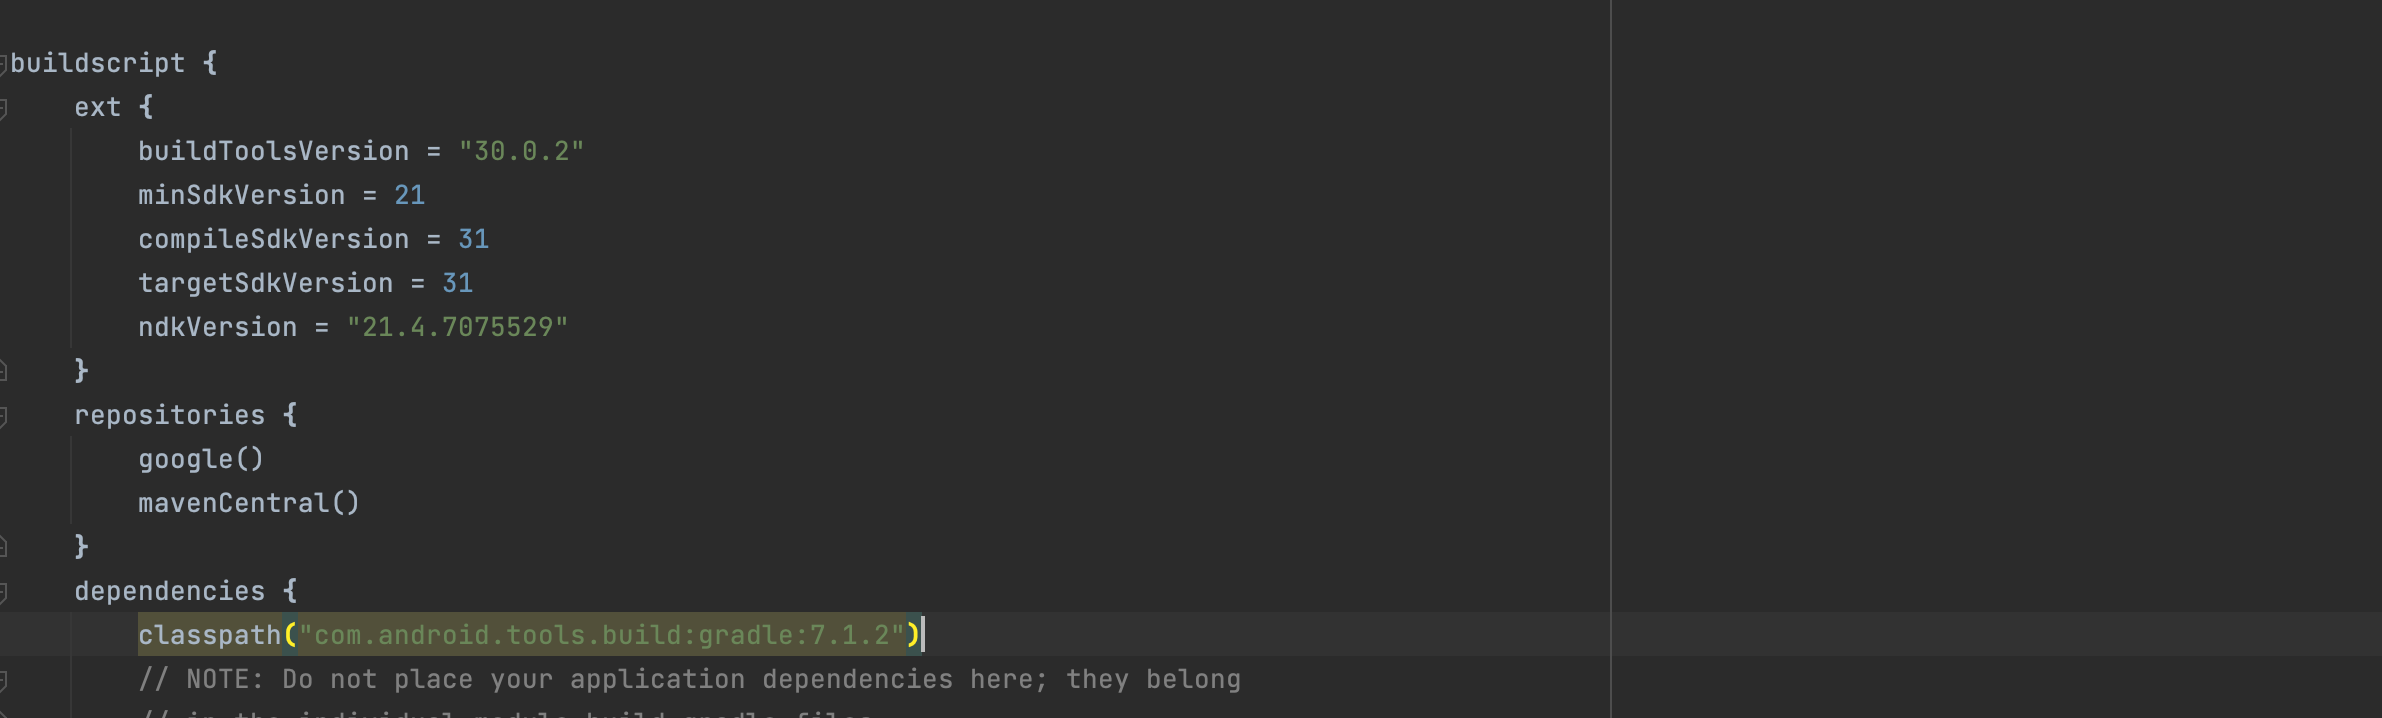
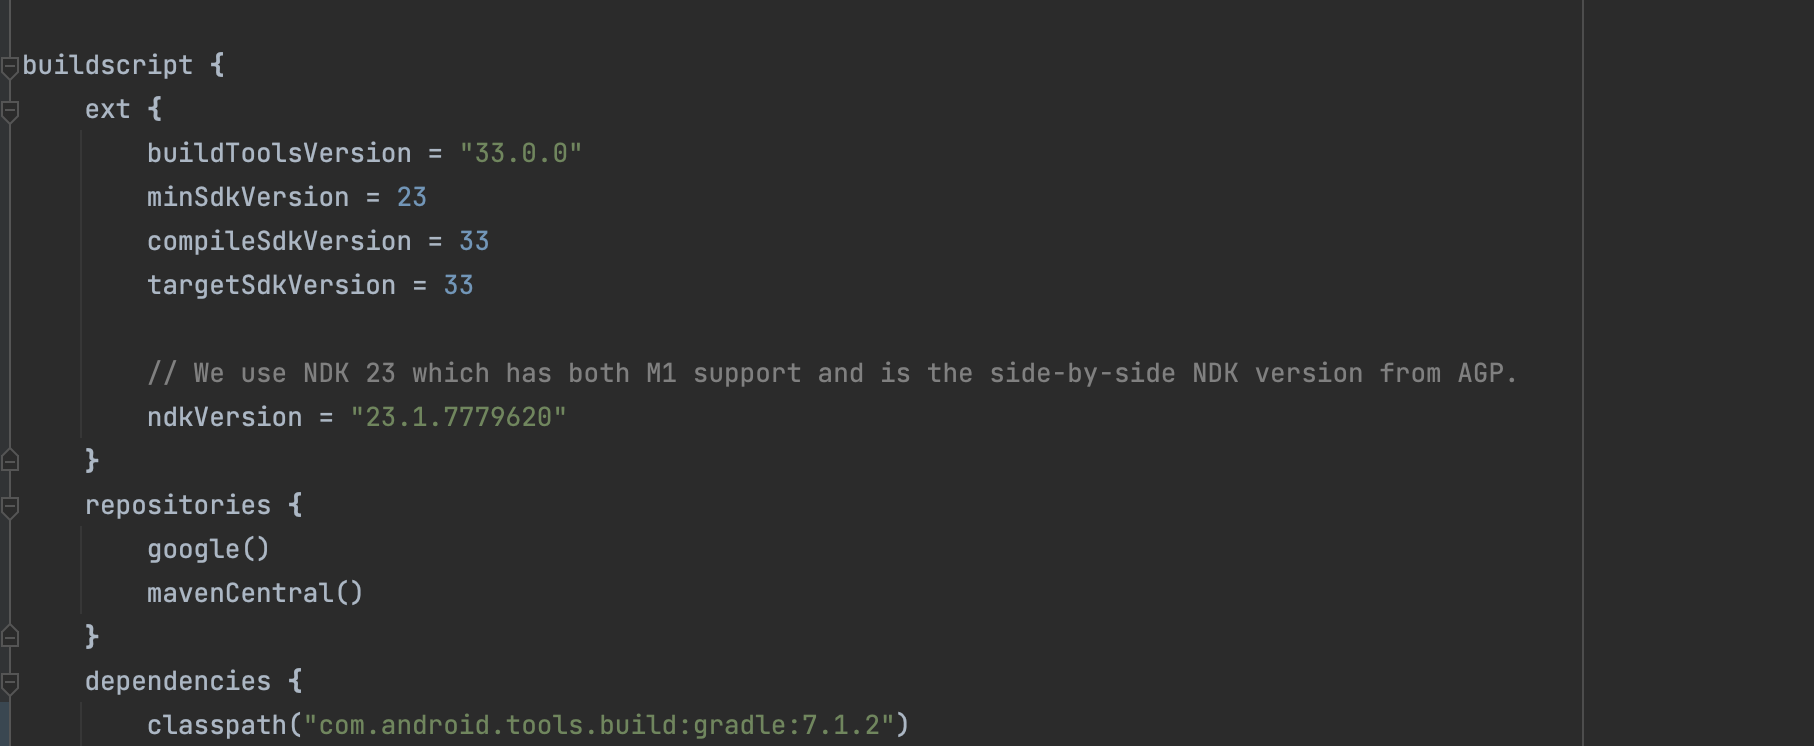
fix(android): Update minsdk to support os 6 & above

Changed region(s): [[0.0309, 0.1838, 0.8335, 1.0], [0.0, 0.0613, 0.1235, 0.1838], [0.0, 0.9192, 0.0309, 1.0]]

diff --git a/README.md b/README.md
@@ -4,7 +4,7 @@
 # Usabilla for Apps - React Native
 
 Usabilla for Apps allows you to collect feedback from your users with great ease and flexibility.
-This React Native bridge to the Native Usabilla SDK allows you to load passive feedback forms and submit results from a React Native app. This release uses the Usabilla SDK for ios v6.5+ and android v7.+ .
+This React Native bridge to the Native Usabilla SDK allows you to load passive feedback forms and submit results from a React Native app. This release uses the Usabilla SDK for ios v6.5+ and android v8.+ .
 This React Native bridge supports React Native app builds with version `0.61.5` that contains Auto-Linking. For React Native versions without Auto-Linking, please follow these steps.
 
 - [Usabilla for Apps - React Native](#usabilla-for-apps---react-native)
@@ -75,8 +75,9 @@ You can start using the Usabilla for React Native module in your app by requirin
 ### Android
 
 1. Make sure that your `MainActivity.java` extends `ReactFragmentActivity`
-2. In case of compilation problems in Android Studio, set the `compileSdkVersion` in the app module `build.gradle` to `26`
-3. You can start using the Usabilla for React Native module in your app by requiring:
+2. In case of compilation problems in Android Studio, set the `compileSdkVersion` in the app module `build.gradle` to `33`
+3. React-native module will support Android OS version 6 and above
+4. You can start using the Usabilla for React Native module in your app by requiring:
 
 `const usabilla = require('usabilla-react-native')`
 
@@ -85,17 +86,20 @@ You can start using the Usabilla for React Native module in your app by requirin
 
 ![](./images/Android1.png)
 
-2. Udate **build.gradle** to use
-	`buildToolsVersion = "30.0.2"`
-	`compileSdkVersion = 31`
-	`targetSdkVersion = 31`
-	`classpath("com.android.tools.build:gradle:7.1.2")`
+2. Update **build.gradle** to use
+	`buildToolsVersion = "30.0.3"`
+	`compileSdkVersion = 33`
+	`targetSdkVersion = 33`
+    `minSdkVersion = 23`  
+	`classpath("com.android.tools.build:gradle:7.3.1")`
 
 ![](./images/Android2.png)
 
 3. Explicitly declare the `android:exported=”true”` attribute in the **AndroidManifest**.
 
 ![](./images/Android3.png)
+
+**Note : Android sdk v8.+ has been migrated from localbroadcast to livedate or lifeccyle observer implementation**
 
 ## Campaigns
 
@@ -118,6 +122,8 @@ It is possible to target a campaign to more than one app (e.g. iOS Production Ap
 To run campaigns in your app, you should first start by initializing the SDK and define the App ID that is generated in [Usabilla](https://app.usabilla.com/member/live/apps/campaigns/add):
 
 `usabilla.initialize("YOUR_APP_ID")`
+
+For Android - wait for UsabillaReadyCallback and once `isUBInitialised` returns true then usabilla methods for forms and campaigns can be called. 
 
 This call loads and updates all your campaigns locally and you can start targeting them by sending events from your app.
 
@@ -150,7 +156,7 @@ Currently we are supporting these lifecycle / system events :
  - `EXIT` : Define as when the app is entering to the background
  - `CRASH` : Define as when the app is crashed ( terminated due to an unexpected behaviour)
 
-**Note : SDK will not listen to any Default / System events, until it has been initialised and it is recommended to initialise only once. In order to make this work properly, SDK has to be initialize using `FlutterUsabilla.initialize` at the earliest possibility, preferably in the initState method:**
+**Note : SDK will not listen to any Default / System events, until it has been initialised and it is recommended to initialise only once. In order to make this work properly, SDK has to be initialize using `initialize` at the earliest possibility**
 
 To get some additional information about the response left by your user, you have the option to use the [`callback`](#campaign-submission-callback)  method. This is a listener that listens in to the moment a Campaign with standard events is closed. 
 
